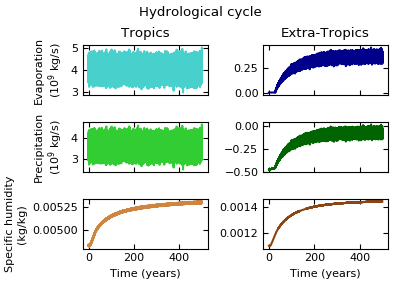
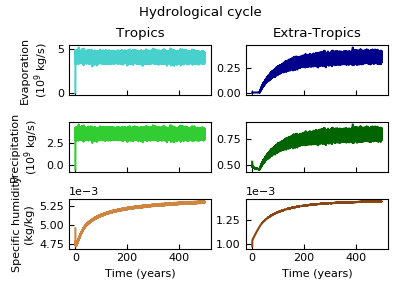
rm some mpl version-dependence

diff --git a/plot.py b/plot.py
@@ -9,10 +9,12 @@ from params import *
 # Set default plotting parameters
 plt.rcParams['xtick.direction'] = 'in'
 plt.rcParams['ytick.direction'] = 'in'
-plt.rcParams['xtick.top'] = True
-plt.rcParams['ytick.right'] = True
-plt.rcParams['axes.formatter.useoffset'] = False
 plt.rcParams['font.size'] = 8
+# Prevent axis offset: doing this via rcParams only works for some matplotlib versions
+# Can do it individually for each axis ( ax.ticklabel_format(useOffset=False) ) but ughh
+if 'axes.formatter.useoffset' in plt.rcParams.keys():
+    plt.rcParams['axes.formatter.useoffset'] = False
+    plt.rcParams['axes.formatter.limits'] = (-2,4) # also use scientific notation
 
 # Colour scheme
 cs = {
@@ -36,7 +38,7 @@ cs = {
       } 
 
 def load_data(loc):
-    """ """
+    """ Load output data from a simulation, from loc/box1.out, loc/box2.out, loc/glob.out """
     # ------- #
     #  Box 1  #
     # ------- #
@@ -95,30 +97,32 @@ def temperatures(box1, box2, glob):
 
     time = glob['time'] / YEAR
 
-    
     fig, ((ax1, ax2), (ax3, ax4), (ax5, ax6)) = plt.subplots(3, 2, sharex='all')
     fig.suptitle("Temperatures")
 
     ax1.set_title("Tropics")
     ax1.set_ylabel("Temperature (K)")
-    ax1.plot(time, box1['Ta'], color=cs['atm'], label="Atm.")
+    atm, = ax1.plot(time, box1['Ta'], color=cs['atm'], label="Atm.")
 
     ax2.set_title("Extra-Tropics")
-    ax2.plot(time, box2['Ta'], color=cs['atm'], label="Atm.")
+    ax2.plot(time, box2['Ta'], color=cs['atm'])
     
     ax3.set_ylabel("Temperature (K)")
-    ax3.plot(time, box1['Ts'], color=cs['surf'], label="Surf.")
+    surf, = ax3.plot(time, box1['Ts'], color=cs['surf'], label="Surf.")
 
-    ax4.plot(time, box2['Ts'], color=cs['surf'], label="Surf.")
+    ax4.plot(time, box2['Ts'], color=cs['surf'])
 
     ax5.set_xlabel("Time (years)")
     ax5.set_ylabel("Temperature (K)")
-    ax5.plot(time, box1['To'], color=cs['oce'], label="Oce.")
+    oce, = ax5.plot(time, box1['To'], color=cs['oce'], label="Oce.")
 
     ax6.set_xlabel("Time (years)")
-    ax6.plot(time, box2['To'], color=cs['oce'], label="Oce.")
+    ax6.plot(time, box2['To'], color=cs['oce'])
+   
+    handles = [atm, surf, oce]
+    labels = [h.get_label() for h in handles]
+    fig.legend(handles=handles, labels=labels, loc=(0.85,0.45))
     
-    fig.legend(loc=(0.85,0.45))
     fig.tight_layout(rect=[0,0.03,1,0.95])
 
     return fig
@@ -136,28 +140,31 @@ def transport(box1, box2, glob):
 
     ax1.set_title("Heat transport")
     ax1.set_ylabel("Power ($10^{15}W$)")
-    ax1.plot(time, (glob['Fa'] * np.pi*RADIUS**2) / PW, color=cs['atm'], label="Atm.")
+    atm, = ax1.plot(time, (glob['Fa'] * np.pi*RADIUS**2) / PW, color=cs['atm'], label="Atm.")
 
     ax2.set_title("Circulation strength")
     ax2.set_ylabel("Flow ($10^9 kg/s$)")
-    ax2.plot(time, glob['Psia'] / SV, color=cs['atm'], label="Atm.")
+    ax2.plot(time, glob['Psia'] / SV, color=cs['atm'])
     
     ax3.set_ylabel("Power ($10^{15}W$)")
-    ax3.plot(time, (glob['Fo'] * np.pi*RADIUS**2) / PW, color=cs['oce'], label="Oce.")
+    oce, = ax3.plot(time, (glob['Fo'] * np.pi*RADIUS**2) / PW, color=cs['oce'], label="Oce.")
 
     ax4.set_ylabel("Flow ($10^9 kg/s$)")
-    ax4.plot(time, glob['Psio'] / SV, color=cs['oce'], label="Oce.")
+    ax4.plot(time, glob['Psio'] / SV, color=cs['oce'])
 
     ax5.set_xlabel("Time (years)")
     ax5.set_ylabel("Power ($10^{15}W$)")
-    ax5.plot(time, ((glob['Fo']+glob['Fa']) * np.pi*RADIUS**2) / PW, color=cs['oatot'], label="Atm.+Oce.")
-    
+    atmoce, = ax5.plot(time, ((glob['Fo']+glob['Fa']) * np.pi*RADIUS**2) / PW, color=cs['oatot'], label="Atm.+Oce.")
+
     ax6.set_title("Moisture transport")
     ax6.set_xlabel("Time (years)")
     ax6.set_ylabel("Flow ($10^9 kg/s$)")
     ax6.plot(time, glob['MTspt'] / SV, color=cs['x'])
    
-    fig.legend(loc=(0.8,0.45))
+    handles = [atm, oce, atmoce]
+    labels = [h.get_label() for h in handles]
+    fig.legend(handles=handles, labels=labels, loc=(0.8,0.45))
+
     fig.tight_layout(rect=[0,0.03,1,0.95])
     
     return fig
@@ -178,7 +185,7 @@ def hydro(box1, box2, glob):
     
     # Box 2
     evap2 = box2['Feva'] * (np.pi*RADIUS**2) / LV           # Evaporation in kg/s
-    prcp2 = evap2 - glob['MTspt']                           # Precipitation in kg/s
+    prcp2 = evap2 + glob['MTspt']                           # Precipitation in kg/s
     prcp2_mmday = (1000*prcp2*DAY) / (RHO*np.pi*RADIUS**2)  # in mm/day
     q2 = (box2['MSE'] - CPA*0.5*(box2['Ta']+box2['Ts']))/LV # Low level spec. humidity in kg/kg
     
@@ -314,17 +321,20 @@ def carbon_dioxide(box1, box2, glob):
 
     ax2.set_title("Average temperature")
     ax2.set_ylabel("Temperature (K)")
-    ax2.plot(time, 0.5*(box1['Ta']+box2['Ta']), color=cs['atm'], label="Atm.")
+    atm, = ax2.plot(time, 0.5*(box1['Ta']+box2['Ta']), color=cs['atm'], label="Atm.")
     
     ax3.set_title("Average temperature")
     ax3.set_xlabel("Time (years)")
     ax3.set_ylabel("Temperature (K)")
-    ax3.plot(time, 0.5*(box1['Ts']+box2['Ts']), color=cs['surf'], label="Surf.")
+    surf, = ax3.plot(time, 0.5*(box1['Ts']+box2['Ts']), color=cs['surf'], label="Surf.")
     
     ax4.set_xlabel("Time (years)")
-    ax4.plot(time, 0.5*(box1['To']+box2['To']), color=cs['oce'], label="Oce.")
+    oce, = ax4.plot(time, 0.5*(box1['To']+box2['To']), color=cs['oce'], label="Oce.")
 
-    fig.legend(loc=(0.85, 0.6))
+    handles = [atm, surf, oce]
+    labels = [h.get_label() for h in handles]
+    fig.legend(handles=handles, labels=labels, loc=(0.85, 0.6))
+    
     fig.tight_layout()
     
     return fig
@@ -346,7 +356,6 @@ def ocean(box1, box2, glob):
     hc2_th = HCO * box2['To']       # thermocline
     hc2_tot = hc2_ml + hc2_th       # total for box 2
 
-
     fig, ((ax1, ax2), (ax3, ax4)) = plt.subplots(2, 2, sharex='all')
     fig.suptitle("Ocean")
 
@@ -355,7 +364,6 @@ def ocean(box1, box2, glob):
     ax1.plot(time, box1['Ts'], color=cs['T'], label="Trop.")
     ax1.plot(time, box2['Ts'], color=cs['ET'], label="E-Trop.")
     ax1.plot(time, 0.5*(box1['Ts']+box2['Ts']), color=cs['av'], label="Av.")
-    #ax1.legend()
 
     ax2.set_title("Ocean Temperatures")
     ax2.set_ylabel("Temperature (K)")

diff --git a/README.md b/README.md
@@ -24,7 +24,7 @@ or just download and unzip.
 ### Model documentation
 
 Before you start, have a read of the [model documentation](http://www.sp.ph.ic.ac.uk/~aczaja/EP/EP2009-2010/ModelDocumentation.pdf).
-It describes the model variables, equations, diagnostics, parameters and gives some example experiments.
+It describes the model variables, equations, diagnostics, parameters and suggests some example experiments.
 
 ### Choosing simulation parameters
 
@@ -78,7 +78,7 @@ python plot.py co2_doubling/tau_10years/ save all
 
 ## Example plots
 
-(Miniaturised) plots obtained using 'control' starting temperatures, but with water vapour feedback and carbon dioxide increasing over a timescale of 100 years.
+(Miniaturised) plots obtained using 'control' starting temperatures, but with water vapour feedback switched on and carbon dioxide increasing over a timescale of 100 years.
 
 ![](/example_figs/temps.png) ![](/example_figs/flux.png)
 ![](/example_figs/hydro.png) ![](/example_figs/co2.png)
